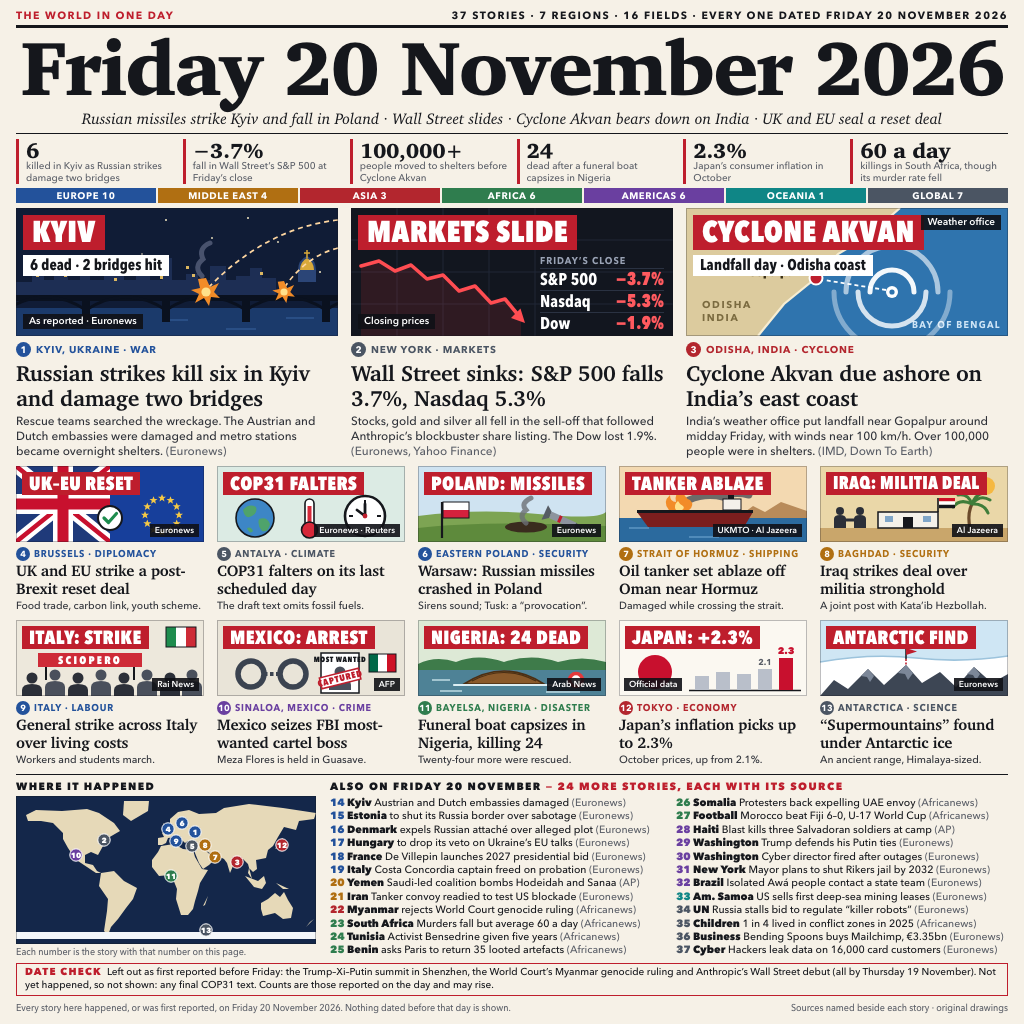
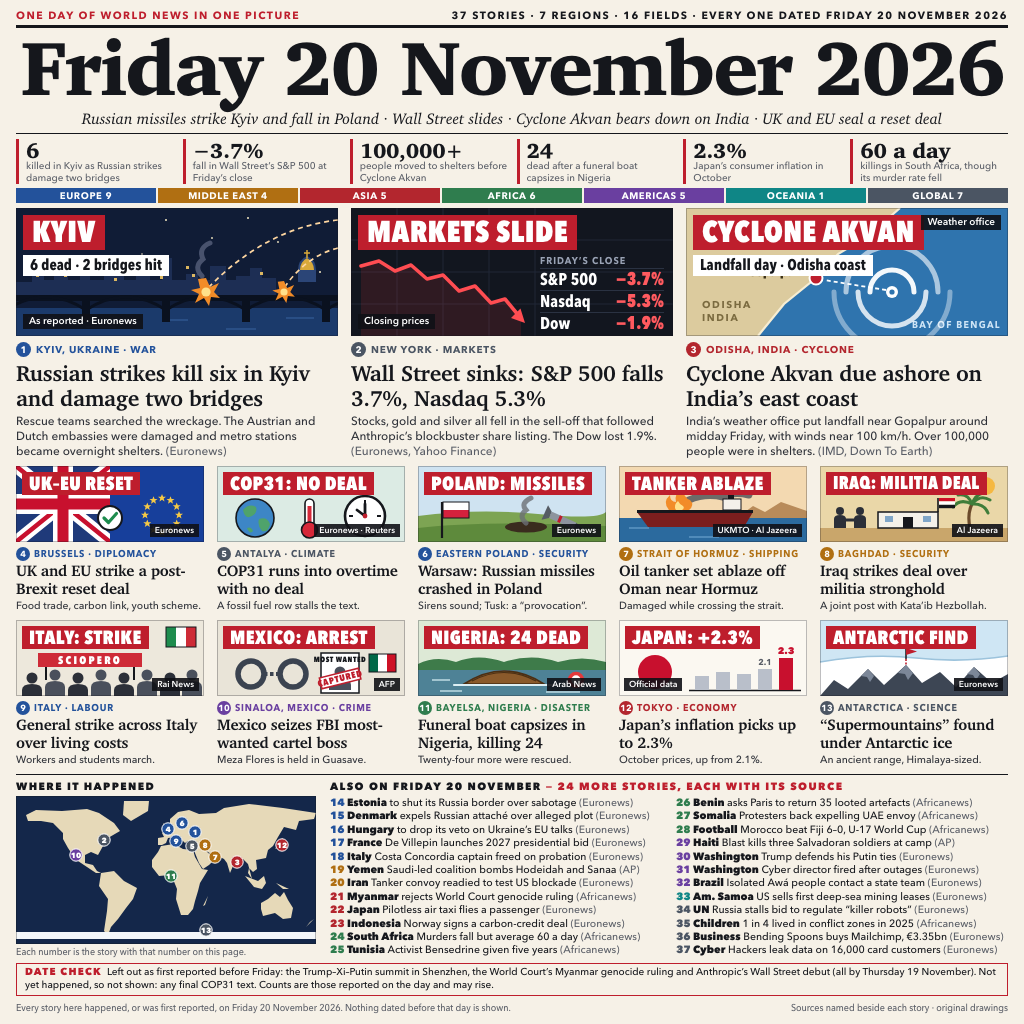
Confirm COP31 overtime, add Asia stories, rebalance the regions

diff --git a/poster.html b/poster.html
@@ -94,7 +94,7 @@ h1{top:27px;height:80px;font:900 77px/80px var(--serif);letter-spacing:-2.2px;te
 <body>
 <div class="page">
 
-  <div class="abs kick"><span class="l">The world in one day</span><span>37 stories · 7 regions · 16 fields · every one dated Friday 20 November 2026</span></div>
+  <div class="abs kick"><span class="l">One day of world news in one picture</span><span>37 stories · 7 regions · 16 fields · every one dated Friday 20 November 2026</span></div>
   <div class="abs bar" style="top:25px;height:3px"></div>
   <h1 class="abs">Friday 20 November 2026</h1>
   <div class="abs deck">Russian missiles strike Kyiv and fall in Poland · Wall Street slides · Cyclone Akvan bears down on India · UK and EU seal a reset deal</div>
@@ -110,7 +110,7 @@ h1{top:27px;height:80px;font:900 77px/80px var(--serif);letter-spacing:-2.2px;te
   </div>
 
   <div class="abs regions">
-    <div class="eu">EUROPE 10</div><div class="me">MIDDLE EAST 4</div><div class="as">ASIA 3</div><div class="af">AFRICA 6</div><div class="am">AMERICAS 6</div><div class="oc">OCEANIA 1</div><div class="gl">GLOBAL 7</div>
+    <div class="eu">EUROPE 9</div><div class="me">MIDDLE EAST 4</div><div class="as">ASIA 5</div><div class="af">AFRICA 6</div><div class="am">AMERICAS 5</div><div class="oc">OCEANIA 1</div><div class="gl">GLOBAL 7</div>
   </div>
 
   <!-- 1 · Kyiv -->
@@ -225,12 +225,12 @@ h1{top:27px;height:80px;font:900 77px/80px var(--serif);letter-spacing:-2.2px;te
         <path d="M148 50V38M148 50L140 44" stroke="#15171C" stroke-width="2.8" stroke-linecap="round"/>
         <circle cx="148" cy="50" r="2.4" fill="#BE1E2D"/>
       </svg>
-      <div class="chip">COP31 falters</div>
+      <div class="chip">COP31: no deal</div>
       <div class="src">Euronews · Reuters</div>
     </div>
     <div class="tag c-gl"><b class="n gl">5</b>Antalya · Climate</div>
-    <h2>COP31 falters on its last scheduled day</h2>
-    <p>The draft text omits fossil fuels.</p>
+    <h2>COP31 runs into overtime with no deal</h2>
+    <p>A fossil fuel row stalls the text.</p>
   </div>
 
   <div class="story tile" style="left:418px;top:466px">
@@ -441,24 +441,24 @@ h1{top:27px;height:80px;font:900 77px/80px var(--serif);letter-spacing:-2.2px;te
   <div class="also">
     <div class="hd">Also on Friday 20 November <span>— 24 more stories, each with its source</span></div>
     <ol>
-      <li><u class="c-eu">14</u><b>Kyiv</b> Austrian and Dutch embassies damaged <i>(Euronews)</i></li>
-      <li><u class="c-eu">15</u><b>Estonia</b> to shut its Russia border over sabotage <i>(Euronews)</i></li>
-      <li><u class="c-eu">16</u><b>Denmark</b> expels Russian attaché over alleged plot <i>(Euronews)</i></li>
-      <li><u class="c-eu">17</u><b>Hungary</b> to drop its veto on Ukraine’s EU talks <i>(Euronews)</i></li>
-      <li><u class="c-eu">18</u><b>France</b> De Villepin launches 2027 presidential bid <i>(Euronews)</i></li>
-      <li><u class="c-eu">19</u><b>Italy</b> Costa Concordia captain freed on probation <i>(Euronews)</i></li>
-      <li><u class="c-me">20</u><b>Yemen</b> Saudi-led coalition bombs Hodeidah and Sanaa <i>(AP)</i></li>
-      <li><u class="c-me">21</u><b>Iran</b> Tanker convoy readied to test US blockade <i>(Euronews)</i></li>
-      <li><u class="c-as">22</u><b>Myanmar</b> rejects World Court genocide ruling <i>(Africanews)</i></li>
-      <li><u class="c-af">23</u><b>South Africa</b> Murders fall but average 60 a day <i>(Africanews)</i></li>
-      <li><u class="c-af">24</u><b>Tunisia</b> Activist Bensedrine given five years <i>(Africanews)</i></li>
-      <li><u class="c-af">25</u><b>Benin</b> asks Paris to return 35 looted artefacts <i>(Africanews)</i></li>
-      <li><u class="c-af">26</u><b>Somalia</b> Protesters back expelling UAE envoy <i>(Africanews)</i></li>
-      <li><u class="c-af">27</u><b>Football</b> Morocco beat Fiji 6–0, U-17 World Cup <i>(Africanews)</i></li>
-      <li><u class="c-am">28</u><b>Haiti</b> Blast kills three Salvadoran soldiers at camp <i>(AP)</i></li>
-      <li><u class="c-am">29</u><b>Washington</b> Trump defends his Putin ties <i>(Euronews)</i></li>
-      <li><u class="c-am">30</u><b>Washington</b> Cyber director fired after outages <i>(Euronews)</i></li>
-      <li><u class="c-am">31</u><b>New York</b> Mayor plans to shut Rikers jail by 2032 <i>(Euronews)</i></li>
+      <li><u class="c-eu">14</u><b>Estonia</b> to shut its Russia border over sabotage <i>(Euronews)</i></li>
+      <li><u class="c-eu">15</u><b>Denmark</b> expels Russian attaché over alleged plot <i>(Euronews)</i></li>
+      <li><u class="c-eu">16</u><b>Hungary</b> to drop its veto on Ukraine’s EU talks <i>(Euronews)</i></li>
+      <li><u class="c-eu">17</u><b>France</b> De Villepin launches 2027 presidential bid <i>(Euronews)</i></li>
+      <li><u class="c-eu">18</u><b>Italy</b> Costa Concordia captain freed on probation <i>(Euronews)</i></li>
+      <li><u class="c-me">19</u><b>Yemen</b> Saudi-led coalition bombs Hodeidah and Sanaa <i>(AP)</i></li>
+      <li><u class="c-me">20</u><b>Iran</b> Tanker convoy readied to test US blockade <i>(Euronews)</i></li>
+      <li><u class="c-as">21</u><b>Myanmar</b> rejects World Court genocide ruling <i>(Africanews)</i></li>
+      <li><u class="c-as">22</u><b>Japan</b> Pilotless air taxi flies a passenger <i>(Euronews)</i></li>
+      <li><u class="c-as">23</u><b>Indonesia</b> Norway signs a carbon-credit deal <i>(Euronews)</i></li>
+      <li><u class="c-af">24</u><b>South Africa</b> Murders fall but average 60 a day <i>(Africanews)</i></li>
+      <li><u class="c-af">25</u><b>Tunisia</b> Activist Bensedrine given five years <i>(Africanews)</i></li>
+      <li><u class="c-af">26</u><b>Benin</b> asks Paris to return 35 looted artefacts <i>(Africanews)</i></li>
+      <li><u class="c-af">27</u><b>Somalia</b> Protesters back expelling UAE envoy <i>(Africanews)</i></li>
+      <li><u class="c-af">28</u><b>Football</b> Morocco beat Fiji 6–0, U-17 World Cup <i>(Africanews)</i></li>
+      <li><u class="c-am">29</u><b>Haiti</b> Blast kills three Salvadoran soldiers at camp <i>(AP)</i></li>
+      <li><u class="c-am">30</u><b>Washington</b> Trump defends his Putin ties <i>(Euronews)</i></li>
+      <li><u class="c-am">31</u><b>Washington</b> Cyber director fired after outages <i>(Euronews)</i></li>
       <li><u class="c-am">32</u><b>Brazil</b> Isolated Awá people contact a state team <i>(Euronews)</i></li>
       <li><u class="c-oc">33</u><b>Am. Samoa</b> US sells first deep-sea mining leases <i>(Euronews)</i></li>
       <li><u class="c-gl">34</u><b>UN</b> Russia stalls bid to regulate “killer robots” <i>(Euronews)</i></li>
